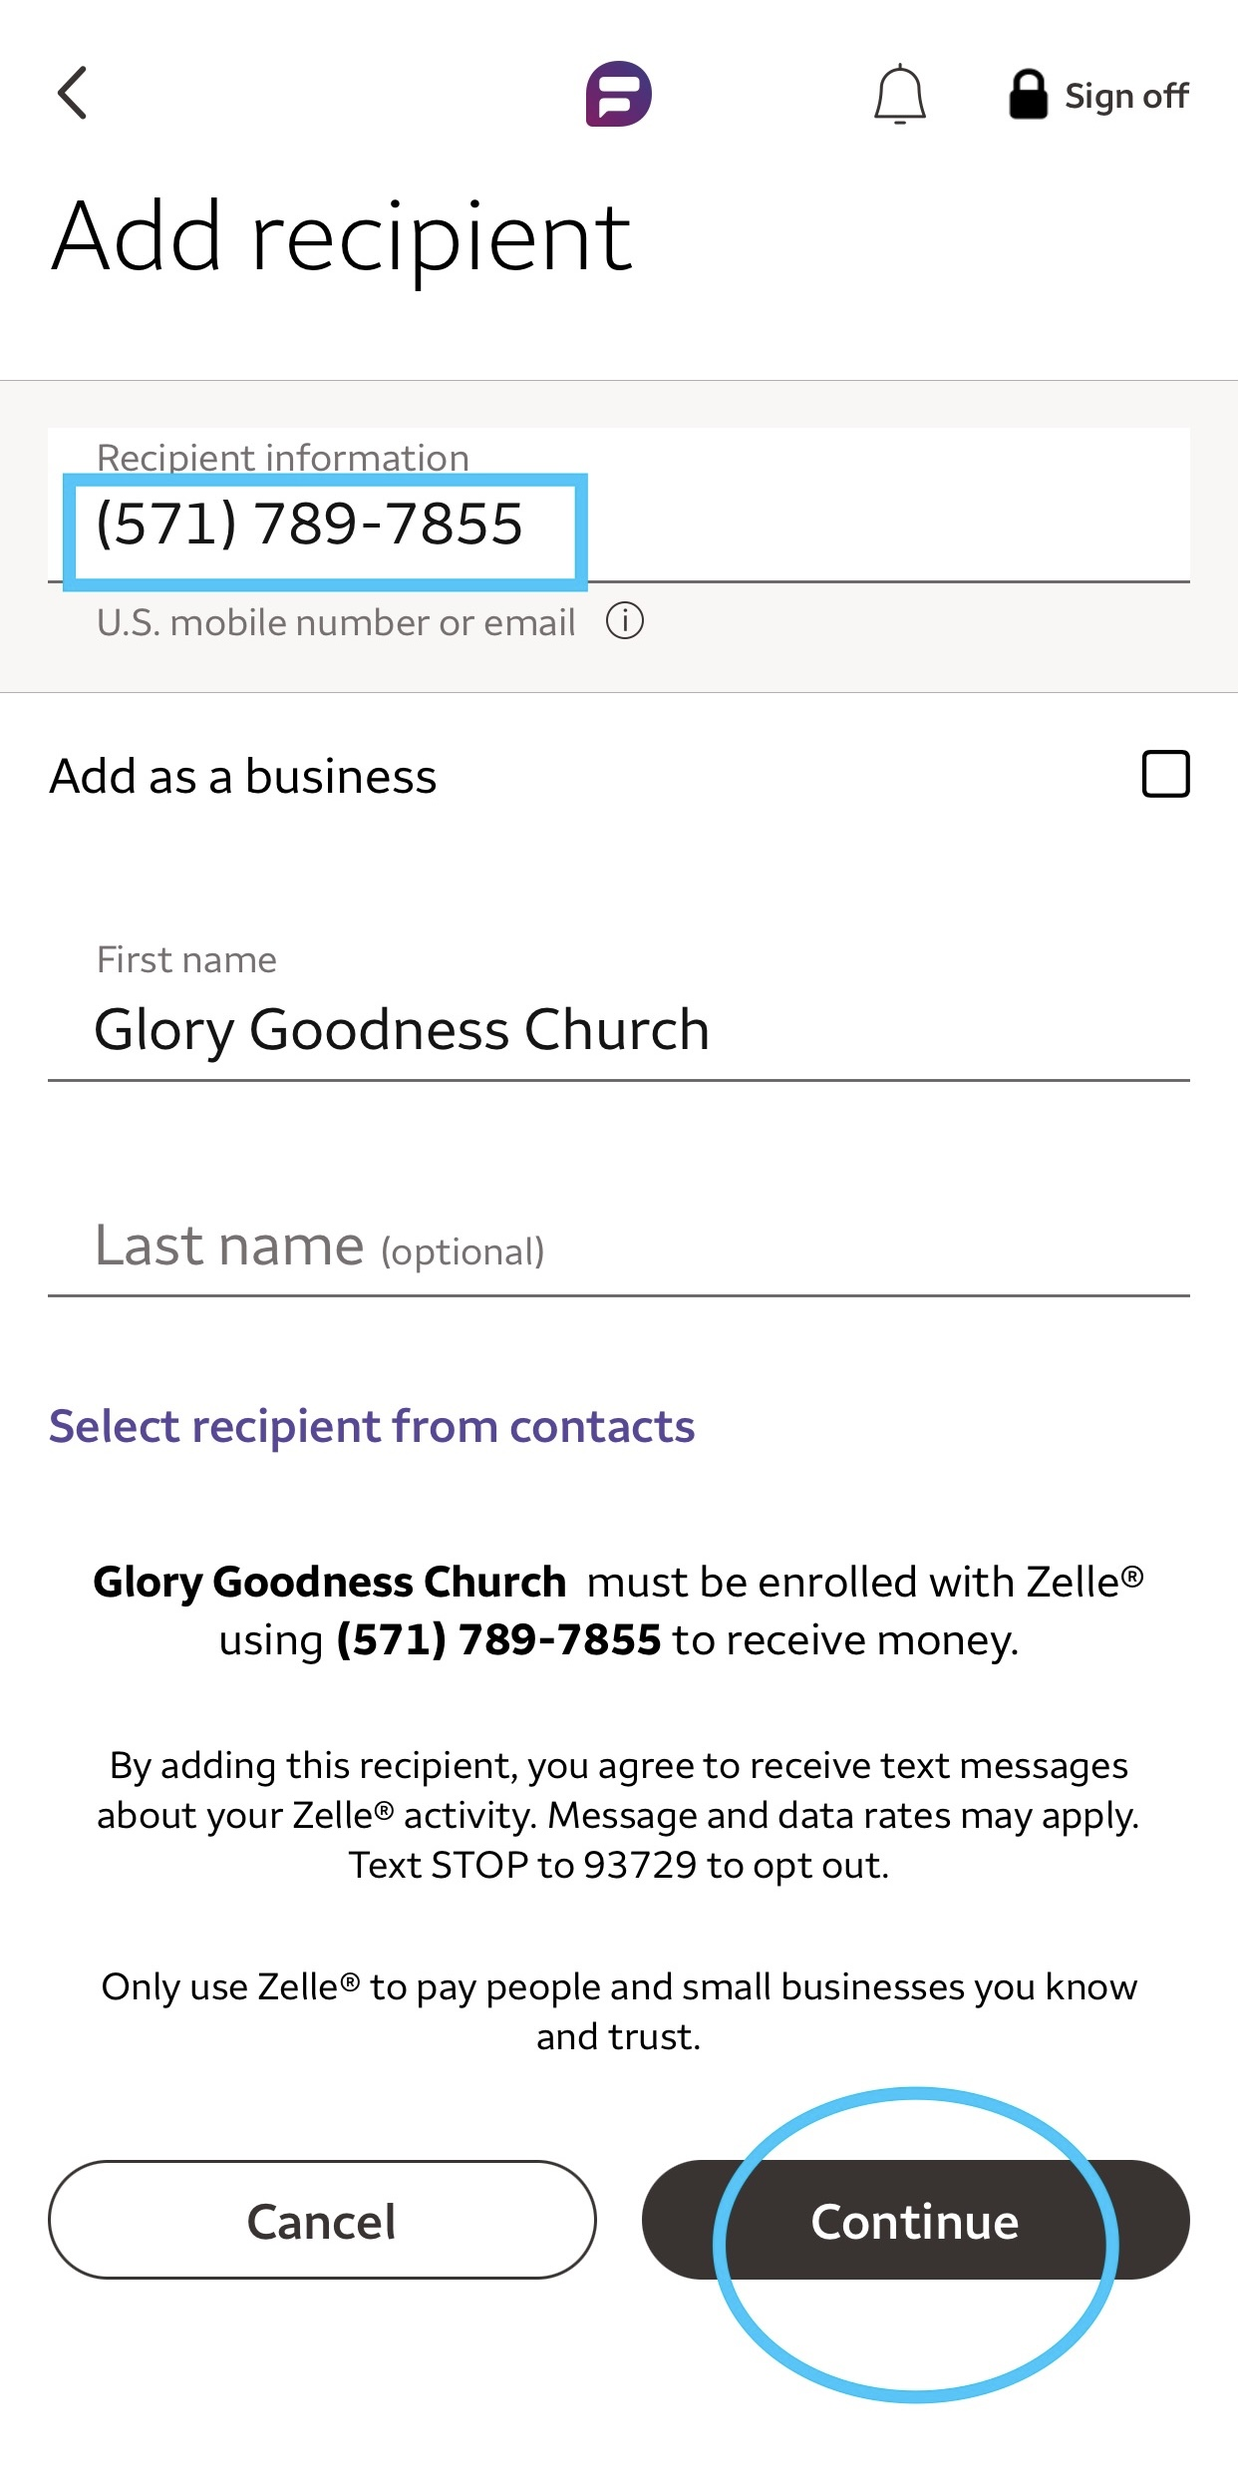
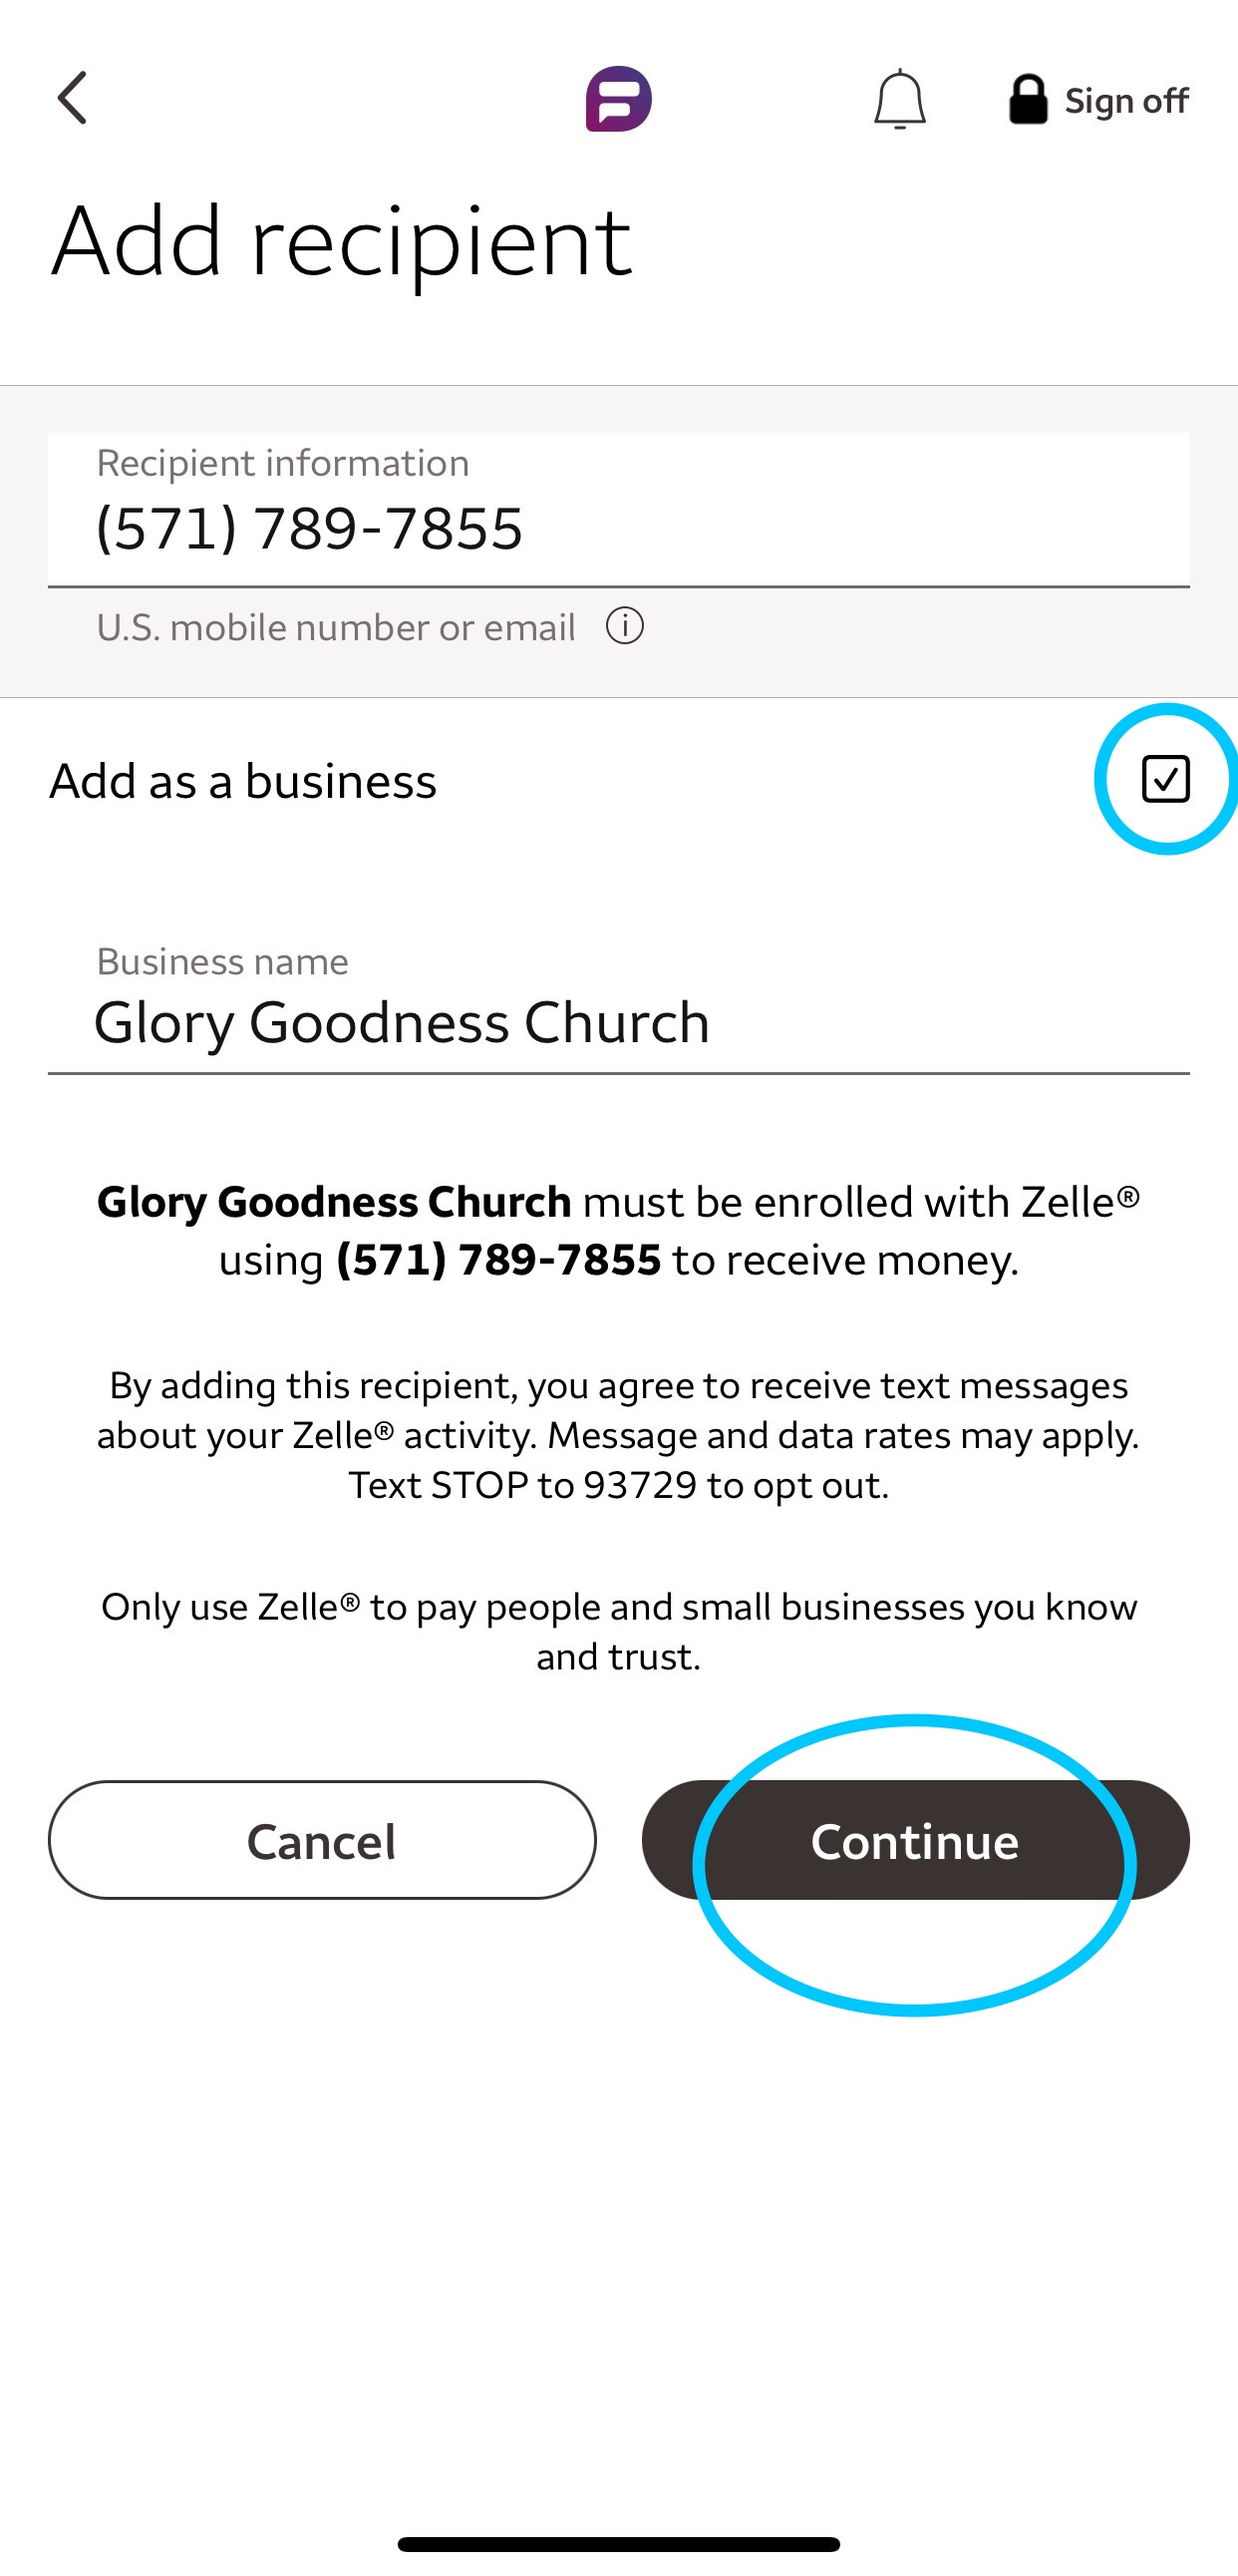
Made changes client requested
-

diff --git a/Church/Giving.html b/Church/Giving.html
@@ -133,7 +133,7 @@
 	  <div class="payment-item">
 		
 		<img src="../Church/Pictures/zelle4.PNG" alt="Zelle Image2" style="float: left; margin-right: 10px; width: 200px; height: 450px;" >
-		<p>Put Glory Goodness Church for name, and then select <span style="color: #20ccfa; font-weight: bold;">continue</span> </p>
+		<p>Put Glory Goodness Church for name and select add as business, and then select <span style="color: #20ccfa; font-weight: bold;">continue</span> </p>
 	  </div>
 
 	  <h3>Step 5</h3>
@@ -147,7 +147,7 @@
 	  <div class="payment-item">
 		
 		<img src="../Church/Pictures/zelle6.PNG" alt="Zelle Image2" style="float: left; margin-right: 10px; width: 200px; height: 450px;" >
-		<p>Enter the donation amount along with a memo. Select <span style="color: #20ccfa; font-weight: bold;">review</span> <br> After reviewing your donation amount, press send on the next page to finalize the payment</p>
+		<p>Enter the donation amount along with a memo. The memo should include your name + donation amount + the current date. Select <span style="color: #20ccfa; font-weight: bold;">review</span> <br> After reviewing your donation amount, press send on the next page to finalize the payment</p>
 	  
 	</div>
 	 
